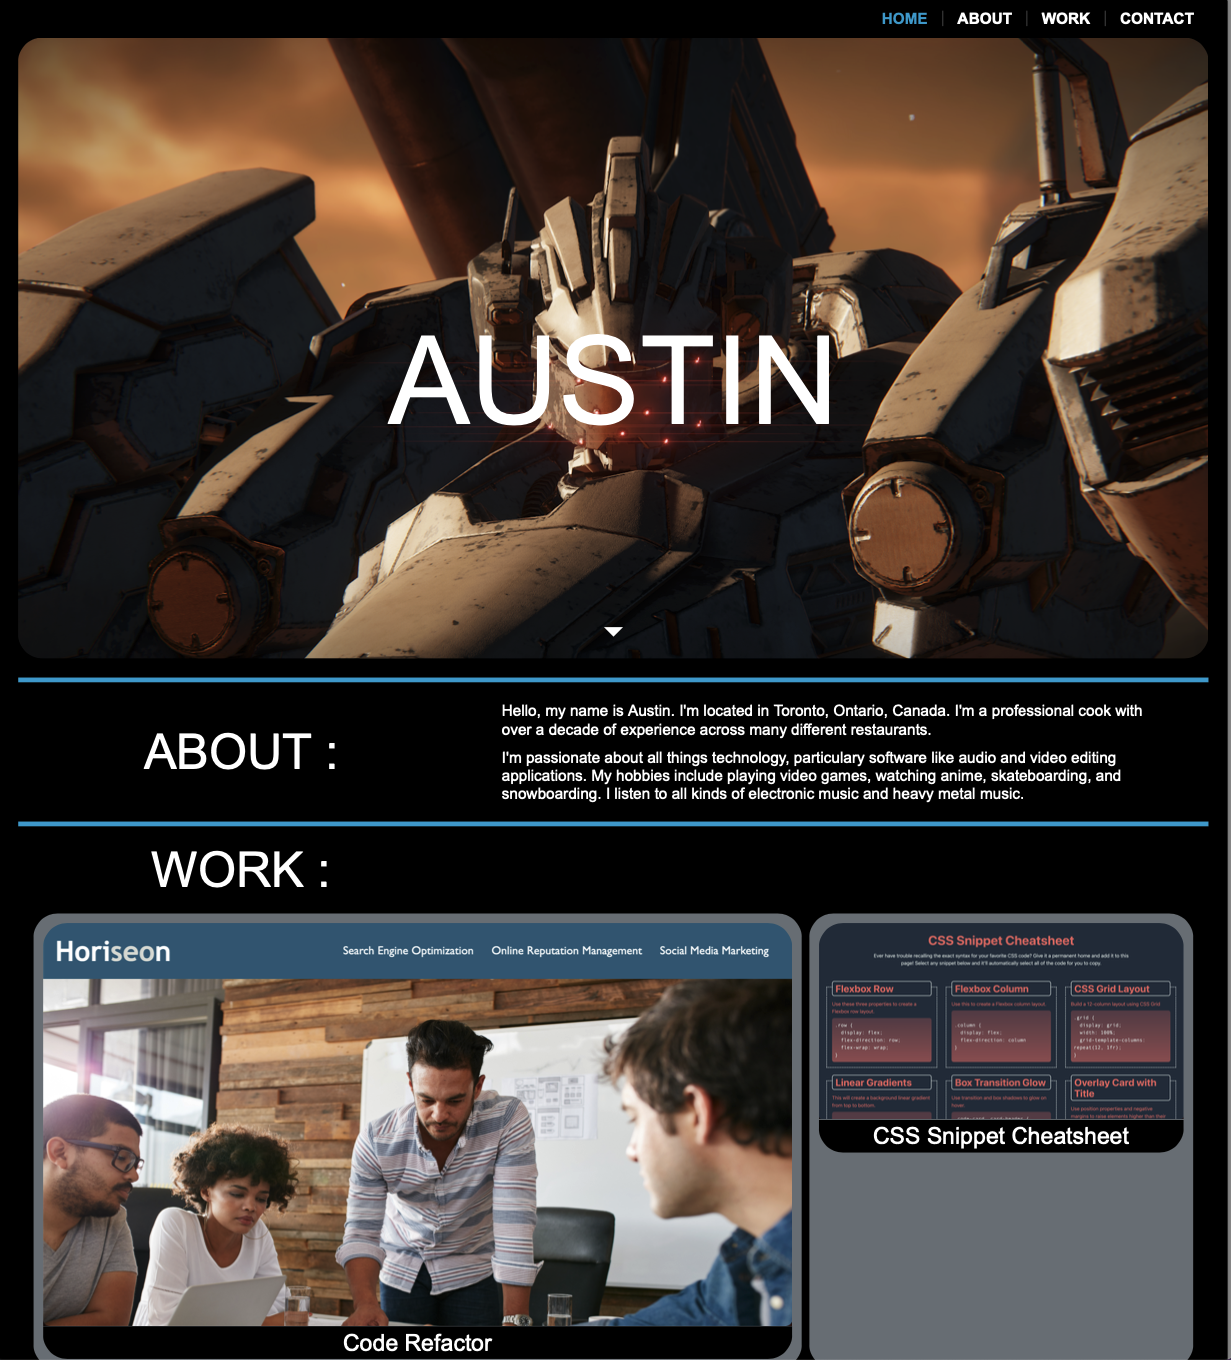
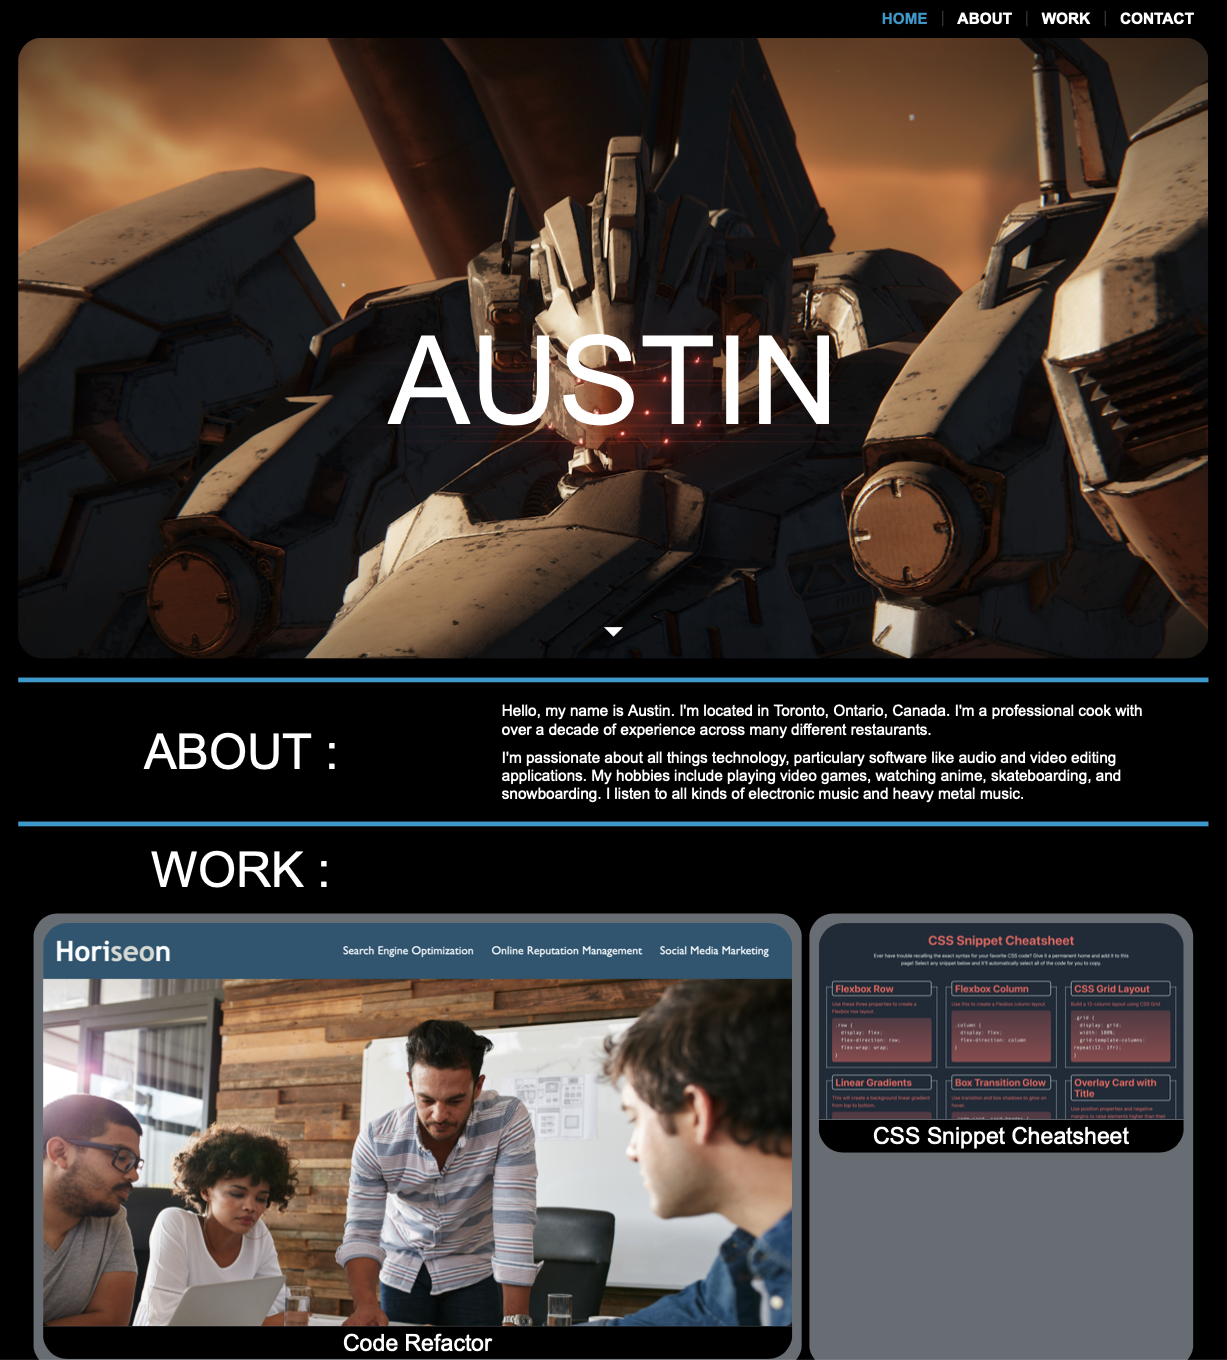
added alt text

diff --git a/index.html b/index.html
@@ -58,23 +58,23 @@
   
     <section class="projects">
       <a href="https://kyoriku.github.io/alpha-1/" target="_blank" class="project-big">
-        <img src="./assets/images/code-refactor.png"  alt="">
+        <img src="./assets/images/code-refactor.png"  alt="Code refactor project">
         <header class="project-header">Code Refactor</header>
       </a>
       <a href="https://kyoriku.github.io/mini-project-2/" target="_blank" class="project-small">
-        <img src="./assets/images/css-snippet-cheatsheet.png"  alt="">
+        <img src="./assets/images/css-snippet-cheatsheet.png"  alt="CSS snippet cheatsheet">
         <header class="project-header">CSS Snippet Cheatsheet</header>
       </a>
       <a href="https://kyoriku.github.io/mini-project-1/" target="_blank" class="project-small">
-        <img src="./assets/images/mini-project-website.png" alt="" >
+        <img src="./assets/images/mini-project-website.png" alt="Mini project website" >
         <header class="project-header">Mini Project Website</header>
       </a>
       <a href="https://kyoriku.github.io/prework-study-guide" target="_blank" class="project-small">
-        <img src="./assets/images/prework-study-guide.png"  alt="">
+        <img src="./assets/images/prework-study-guide.png"  alt="Prework study guide">
         <header class="project-header">Prework Study Guide</header>
       </a>
       <a href="#" target="_blank" class="project-small">
-        <img src="./assets/images/armoredcore2.png"  alt="">
+        <img src="./assets/images/armoredcore2.png"  alt="placeholder panel">
         <header class="project-header">Placeholder</header>
       </a>
     </section>
